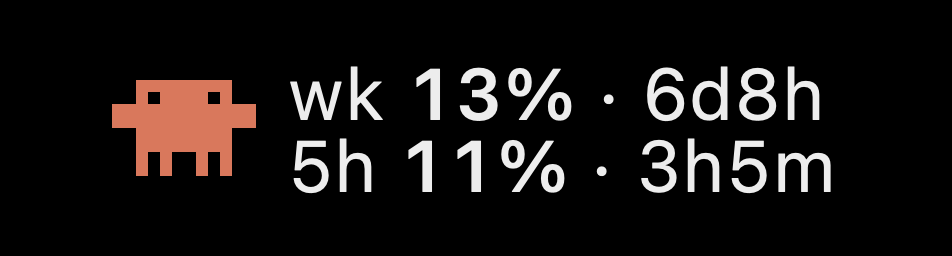
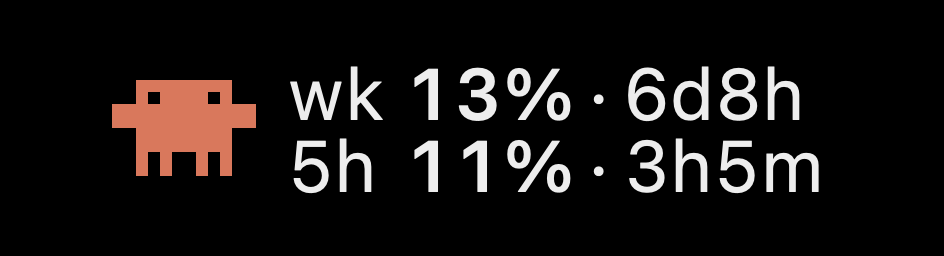
v1.0.1: align separator dots, keep width, fix hidden status item

diff --git a/main.swift b/main.swift
@@ -65,32 +65,9 @@ enum Store {
     static func clear() { SecItemDelete(query as CFDictionary) }
 }
 
-// Pixel mascot drawn from a 12x8 grid (vector, so it's crisp at any scale, no image assets).
-enum Pose { case rest, blink, step, waveL, waveR }
-
-func mascotImage(cell: CGFloat = 1.5, pose: Pose = .rest) -> NSImage {
-    var grid = Array(repeating: Array(repeating: false, count: 12), count: 8)
-    func fill(_ rows: ClosedRange<Int>, _ cols: [Int]) { for r in rows { for c in cols { grid[r][c] = true } } }
-    fill(0...5, Array(2...9))                                   // head/body
-    fill(2...3, Array(0...11))                                  // arms
-    fill(6...7, pose == .step ? [3, 4, 7, 8] : [2, 4, 7, 9])    // legs
-    if pose == .waveL { for c in [0, 1] { grid[3][c] = false; grid[1][c] = true } }
-    if pose == .waveR { for c in [10, 11] { grid[3][c] = false; grid[1][c] = true } }
-    let body = NSColor(srgbRed: 0.85, green: 0.47, blue: 0.36, alpha: 1)
-    let eyes: Set<[Int]> = [[1, 3], [1, 8]]   // [row, col]
-    let img = NSImage(size: NSSize(width: 12 * cell, height: 8 * cell), flipped: true) { _ in
-        for r in 0..<8 { for c in 0..<12 where grid[r][c] {
-            (eyes.contains([r, c]) && pose != .blink ? NSColor.black : body).setFill()
-            NSRect(x: CGFloat(c) * cell, y: CGFloat(r) * cell, width: cell, height: cell).fill()
-        } }
-        return true
-    }
-    img.isTemplate = false
-    return img
-}
-
 // Newest first. Keep the top entry in sync with CFBundleShortVersionString in build.sh.
 let changelog: [(version: String, notes: [String])] = [
+    ("1.0.1", ["Separator dots now line up exactly between the two rows", "Menu bar item is never wider than before; drawing code moved to MenuBarArt.swift"]),
     ("1.0", ["Added About page with changelog and credits", "Menu shows when usage last refreshed and when the next refresh is",
              "New app icon"]),
     ("0.8", ["Weekly reset countdown now shown in the menu bar", "Dropdown shows one line per limit"]),
@@ -134,8 +111,7 @@ final class App: NSObject, NSApplicationDelegate, NSWindowDelegate, WKNavigation
     var lastAttempt: Date?
     var lastOK = true
     var pose: Pose = .rest
-    var lastTop: NSAttributedString?
-    var lastBottom: NSAttributedString?
+    var lastRows: [BarRow]?
     var plainText: String?
     var tick: Timer?
     var popups: [NSWindow] = []
@@ -151,6 +127,8 @@ final class App: NSObject, NSApplicationDelegate, NSWindowDelegate, WKNavigation
 
     func applicationDidFinishLaunching(_ n: Notification) {
         setupMainMenu()
+        item.autosaveName = "ClaudeUsageMenuBar"   // own stable slot, not a generic "Item-N"
+        item.isVisible = true
         item.button?.image = mascotImage()
         item.button?.imagePosition = .imageLeft
         item.button?.imageHugsTitle = true
@@ -564,7 +542,7 @@ final class App: NSObject, NSApplicationDelegate, NSWindowDelegate, WKNavigation
 
     func setPose(_ p: Pose) {
         pose = p
-        if let t = lastTop, let b = lastBottom, plainText == nil { setStacked(t, b) }
+        if let rows = lastRows, plainText == nil { setStacked(rows) }
         else if let txt = plainText { setPlain(txt) }
     }
 
@@ -574,27 +552,16 @@ final class App: NSObject, NSApplicationDelegate, NSWindowDelegate, WKNavigation
         // Reset time has passed: numbers are stale, fetch fresh ones.
         if let r = u.sessionReset, r < now, !inFlight { refresh() }
 
-        // Menu bar: mascot + two stacked lines (weekly on top; 5-hour and its countdown below).
-        let mono9 = { (w: NSFont.Weight) in NSFont.monospacedDigitSystemFont(ofSize: 9, weight: w) }
-        func line(_ parts: [(String, Double?)]) -> NSAttributedString {
-            let out = NSMutableAttributedString()
-            for (t, pct) in parts {
-                let c = pct.flatMap { Self.color(for: $0) }
-                out.append(NSAttributedString(string: t, attributes: [
-                    .font: mono9(pct == nil ? .regular : .semibold),
-                    .foregroundColor: c ?? NSColor.labelColor]))
-            }
-            return out
+        // Menu bar: mascot + two aligned rows (weekly on top; 5-hour below), each with its countdown.
+        func cd(_ d: Date?) -> String? {
+            guard let d, d > now else { return nil }
+            return Self.countdown(d.timeIntervalSince(now), compact: true)
         }
-        var topParts: [(String, Double?)] = [("wk ", nil), ("\(Int(u.weekly.rounded()))%", u.weekly)]
-        if let r = u.weeklyReset, r > now { topParts.append((" · \(Self.countdown(r.timeIntervalSince(now), compact: true))", nil)) }
-        let top = line(topParts)
-        var bottomParts: [(String, Double?)] = []
+        var rows = [BarRow(label: "wk", pct: "\(Int(u.weekly.rounded()))%", color: Self.color(for: u.weekly), time: cd(u.weeklyReset))]
         if let s = u.session {
-            bottomParts = [("5h ", nil), ("\(Int(s.rounded()))%", s)]
-            if let r = u.sessionReset, r > now { bottomParts.append((" · \(Self.countdown(r.timeIntervalSince(now), compact: true))", nil)) }
+            rows.append(BarRow(label: "5h", pct: "\(Int(s.rounded()))%", color: Self.color(for: s), time: cd(u.sessionReset)))
         }
-        setStacked(top, line(bottomParts))
+        setStacked(rows)
 
         // Menu detail
         var w = "Weekly: \(Int(u.weekly.rounded()))% used"
@@ -617,25 +584,11 @@ final class App: NSObject, NSApplicationDelegate, NSWindowDelegate, WKNavigation
         return "\(m / 1440)d\(sp)\((m % 1440) / 60)h"
     }
 
-    // Composite image: mascot + two text lines. Drawn with dynamic colors so it follows light/dark mode.
-    func setStacked(_ top: NSAttributedString, _ bottom: NSAttributedString) {
-        lastTop = top; lastBottom = bottom; plainText = nil
-        let mascot = mascotImage(pose: pose)
-        let ts = top.size(), bs = bottom.size()
-        let gap: CGFloat = 4, H: CGFloat = 22
-        let w = mascot.size.width + gap + ceil(max(ts.width, bs.width))
-        let img = NSImage(size: NSSize(width: w, height: H), flipped: false) { _ in
-            mascot.draw(in: NSRect(x: 0, y: (H - mascot.size.height) / 2, width: mascot.size.width, height: mascot.size.height))
-            let x = mascot.size.width + gap
-            let total = ts.height + bs.height - 2
-            let y0 = (H - total) / 2
-            bottom.draw(at: NSPoint(x: x, y: y0))
-            top.draw(at: NSPoint(x: x, y: y0 + bs.height - 2))
-            return true
-        }
-        img.isTemplate = false
+    // Composite image: mascot + aligned text rows (see MenuBarArt.swift). Dynamic colors follow light/dark mode.
+    func setStacked(_ rows: [BarRow]) {
+        lastRows = rows; plainText = nil
         item.button?.attributedTitle = NSAttributedString(string: "")
-        item.button?.image = img
+        item.button?.image = BarLayout.image(rows: rows, pose: pose)
         item.button?.imagePosition = .imageOnly
     }
 

diff --git a/MenuBarArt.swift b/MenuBarArt.swift
@@ -1,0 +1,123 @@
+import AppKit
+
+// Drawing for the menu bar item: pixel mascot + two aligned text rows.
+// Shared by the app and by the script that renders the README image.
+
+// MARK: Mascot
+
+enum Pose { case rest, blink, step, waveL, waveR }
+
+// Pixel mascot drawn from a 12x8 grid (vector, so it's crisp at any scale, no image assets).
+func mascotImage(cell: CGFloat = 1.5, pose: Pose = .rest) -> NSImage {
+    var grid = Array(repeating: Array(repeating: false, count: 12), count: 8)
+    func fill(_ rows: ClosedRange<Int>, _ cols: [Int]) { for r in rows { for c in cols { grid[r][c] = true } } }
+    fill(0...5, Array(2...9))                                   // head/body
+    fill(2...3, Array(0...11))                                  // arms
+    fill(6...7, pose == .step ? [3, 4, 7, 8] : [2, 4, 7, 9])    // legs
+    if pose == .waveL { for c in [0, 1] { grid[3][c] = false; grid[1][c] = true } }
+    if pose == .waveR { for c in [10, 11] { grid[3][c] = false; grid[1][c] = true } }
+    let body = NSColor(srgbRed: 0.85, green: 0.47, blue: 0.36, alpha: 1)
+    let eyes: Set<[Int]> = [[1, 3], [1, 8]]   // [row, col]
+    let img = NSImage(size: NSSize(width: 12 * cell, height: 8 * cell), flipped: true) { _ in
+        for r in 0..<8 { for c in 0..<12 where grid[r][c] {
+            (eyes.contains([r, c]) && pose != .blink ? NSColor.black : body).setFill()
+            NSRect(x: CGFloat(c) * cell, y: CGFloat(r) * cell, width: cell, height: cell).fill()
+        } }
+        return true
+    }
+    img.isTemplate = false
+    return img
+}
+
+// MARK: Text rows
+
+struct BarRow {
+    let label: String      // "wk" / "5h"
+    let pct: String        // "13%"
+    let color: NSColor?    // nil = normal text color
+    let time: String?      // "6d8h", nil when there is no reset time
+}
+
+enum BarLayout {
+    static let gap: CGFloat = 4          // mascot → text
+    static let height: CGFloat = 22
+    static let labelGap: CGFloat = 1     // label → percent
+    static let dotPad: CGFloat = 1.5       // either side of the separator dot
+
+    static func font(bold: Bool) -> NSFont {
+        .monospacedDigitSystemFont(ofSize: 9, weight: bold ? .semibold : .regular)
+    }
+    static func text(_ s: String, bold: Bool = false, color: NSColor) -> NSAttributedString {
+        NSAttributedString(string: s, attributes: [.font: font(bold: bold), .foregroundColor: color])
+    }
+
+    struct Columns { var label: CGFloat; var pct: CGFloat; var dot: CGFloat; var time: CGFloat
+        var total: CGFloat { label + labelGap + pct + dot + time } }
+
+    // Column widths are the widest entry in each column, so the dots line up exactly.
+    static func columns(_ rows: [BarRow]) -> Columns {
+        func w(_ s: String, _ bold: Bool) -> CGFloat { text(s, bold: bold, color: .white).size().width }
+        let times = rows.compactMap { $0.time }
+        let dotW = times.isEmpty ? 0 : w("·", false) + 2 * dotPad
+        return Columns(label: ceil(rows.map { w($0.label, false) }.max() ?? 0),
+                       pct: ceil(rows.map { w($0.pct, true) }.max() ?? 0),
+                       dot: ceil(dotW * 2) / 2,
+                       time: ceil(times.map { w($0, false) }.max() ?? 0))
+    }
+
+    // Old layout: each row is one run of text ("wk 13% · 6d8h"), dots not aligned but no wasted space.
+    static func run(_ r: BarRow, textColor: NSColor) -> NSAttributedString {
+        let out = NSMutableAttributedString()
+        out.append(text(r.label + " ", color: textColor))
+        out.append(text(r.pct, bold: true, color: r.color ?? textColor))
+        if let t = r.time { out.append(text(" · " + t, color: textColor)) }
+        return out
+    }
+
+    static func image(rows: [BarRow], pose: Pose, textColor: NSColor = .labelColor) -> NSImage {
+        let mascot = mascotImage(pose: pose)
+        let cols = columns(rows)
+        // Aligned columns need the widest entry of each column; in rare combinations that is wider than
+        // the plain runs. Never take more menu bar room than the plain layout would.
+        let runs = rows.map { run($0, textColor: textColor) }
+        let plainW = ceil(runs.map { $0.size().width }.max() ?? 0)
+        if cols.total > plainW + 0.5 { return plainImage(runs: runs, mascot: mascot, width: plainW) }
+        let H = height
+        let lineH = text("0", color: textColor).size().height
+        let total = 2 * lineH - 2
+        let y0 = (H - total) / 2
+        let x0 = mascot.size.width + gap
+        let width = x0 + cols.total
+
+        return NSImage(size: NSSize(width: width, height: H), flipped: false) { _ in
+            mascot.draw(in: NSRect(x: 0, y: (H - mascot.size.height) / 2,
+                                   width: mascot.size.width, height: mascot.size.height))
+            for (i, r) in rows.enumerated() {
+                let y = i == 0 ? y0 + lineH - 2 : y0          // row 0 on top
+                text(r.label, color: textColor).draw(at: NSPoint(x: x0, y: y))
+                let p = text(r.pct, bold: true, color: r.color ?? textColor)
+                let pctBase = x0 + cols.label + labelGap
+                p.draw(at: NSPoint(x: pctBase + cols.pct - p.size().width, y: y))   // right-aligned
+                if let t = r.time {
+                    let dx = pctBase + cols.pct
+                    text("·", color: textColor).draw(at: NSPoint(x: dx + dotPad, y: y))
+                    text(t, color: textColor).draw(at: NSPoint(x: dx + cols.dot, y: y))
+                }
+            }
+            return true
+        }
+    }
+
+    static func plainImage(runs: [NSAttributedString], mascot: NSImage, width: CGFloat) -> NSImage {
+        let H = height
+        let lineH = runs.first?.size().height ?? 11
+        let y0 = (H - (2 * lineH - 2)) / 2
+        let x0 = mascot.size.width + gap
+        return NSImage(size: NSSize(width: x0 + width, height: H), flipped: false) { _ in
+            mascot.draw(in: NSRect(x: 0, y: (H - mascot.size.height) / 2,
+                                   width: mascot.size.width, height: mascot.size.height))
+            for (i, r) in runs.enumerated() { r.draw(at: NSPoint(x: x0, y: i == 0 ? y0 + lineH - 2 : y0)) }
+            return true
+        }
+    }
+}

diff --git a/README.md b/README.md
@@ -48,7 +48,8 @@ This is an unofficial community project. It is not affiliated with, endorsed by,
 
 | File | Purpose |
 |---|---|
-| `main.swift` | The whole app |
+| `main.swift` | The app: sign-in, polling, menus, About |
+| `MenuBarArt.swift` | Draws the menu bar item (mascot and aligned rows) |
 | `makeicon.swift` | Generates the app icon from the pixel mascot |
 | `build.sh` | Builds and ad-hoc signs `ClaudeUsage.app` |
 
